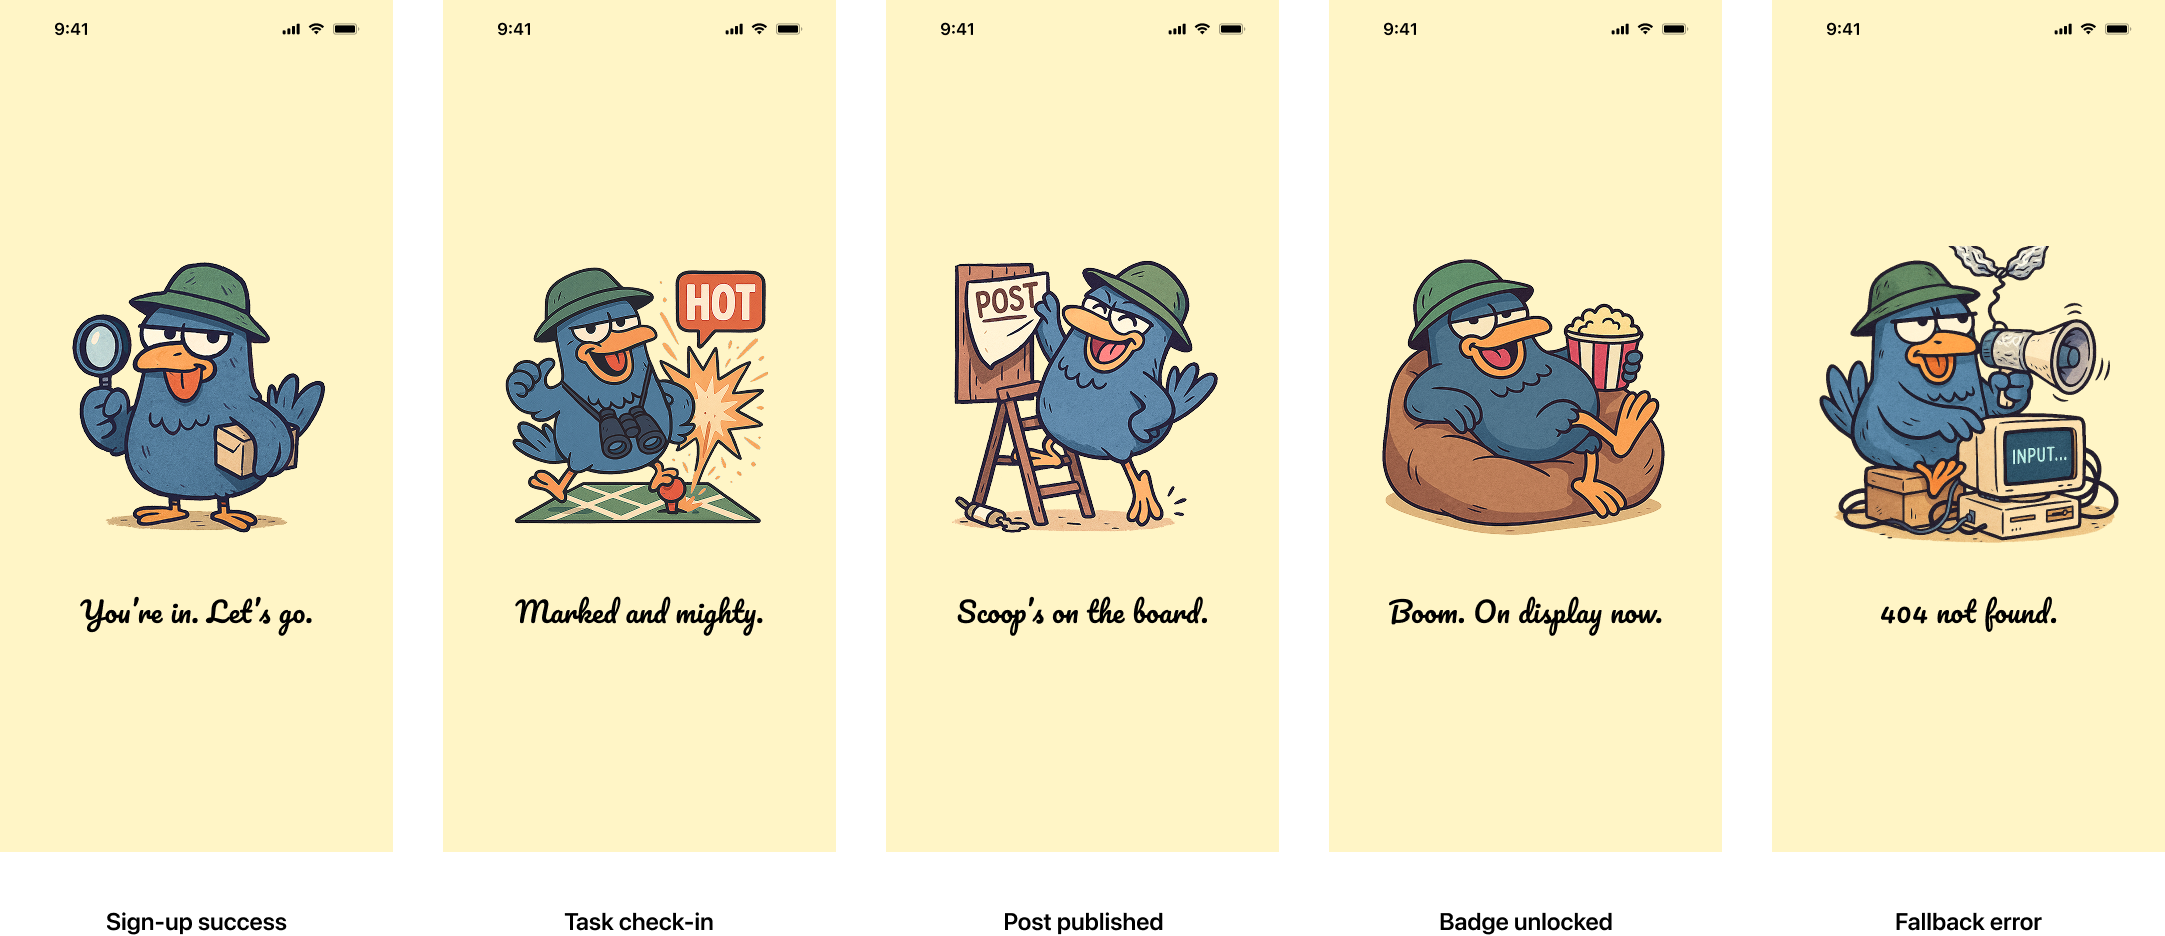
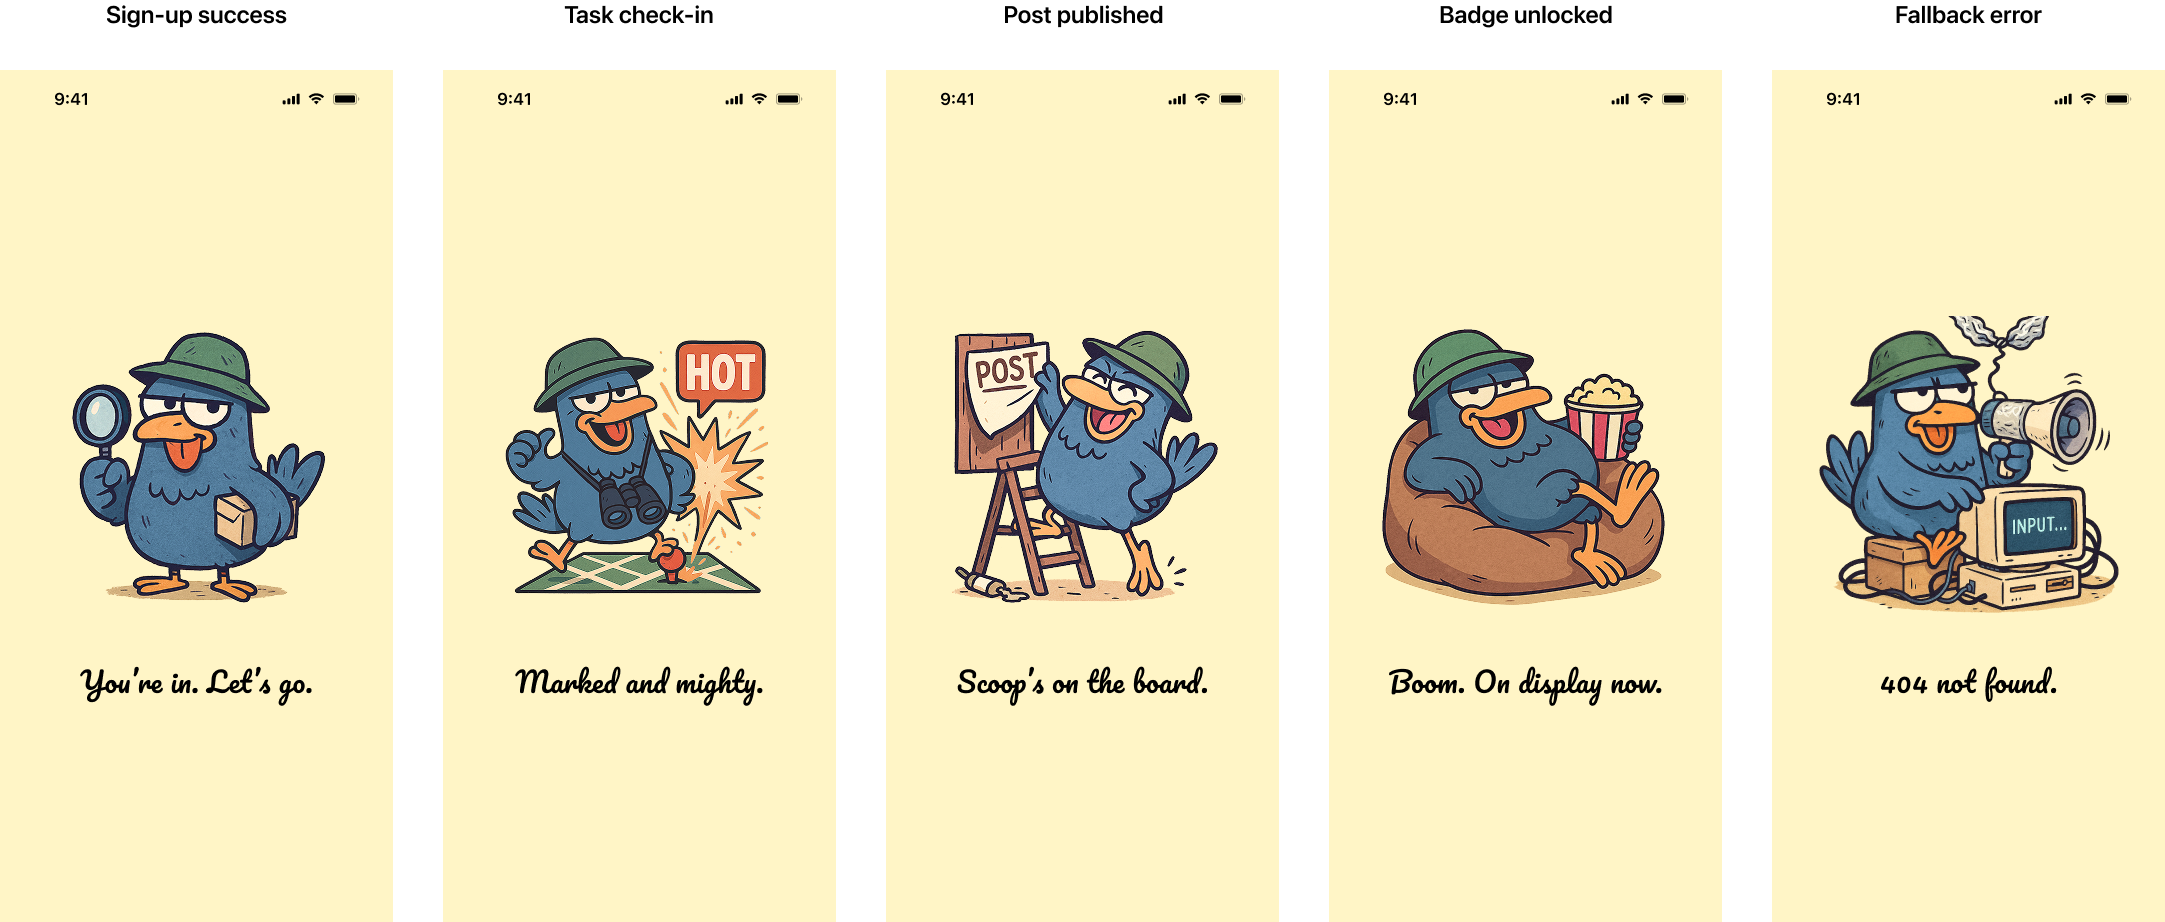
a

diff --git a/static/css/MIT.css b/static/css/MIT.css
@@ -3277,5 +3277,5 @@ body.polyverse-backup {
   font: 500 14px 'Heebo', Helvetica, Arial, sans-serif;
   color: #000;
   text-align: center;
-  margin-top: 36px;
+  margin-top: 24px;
 }
